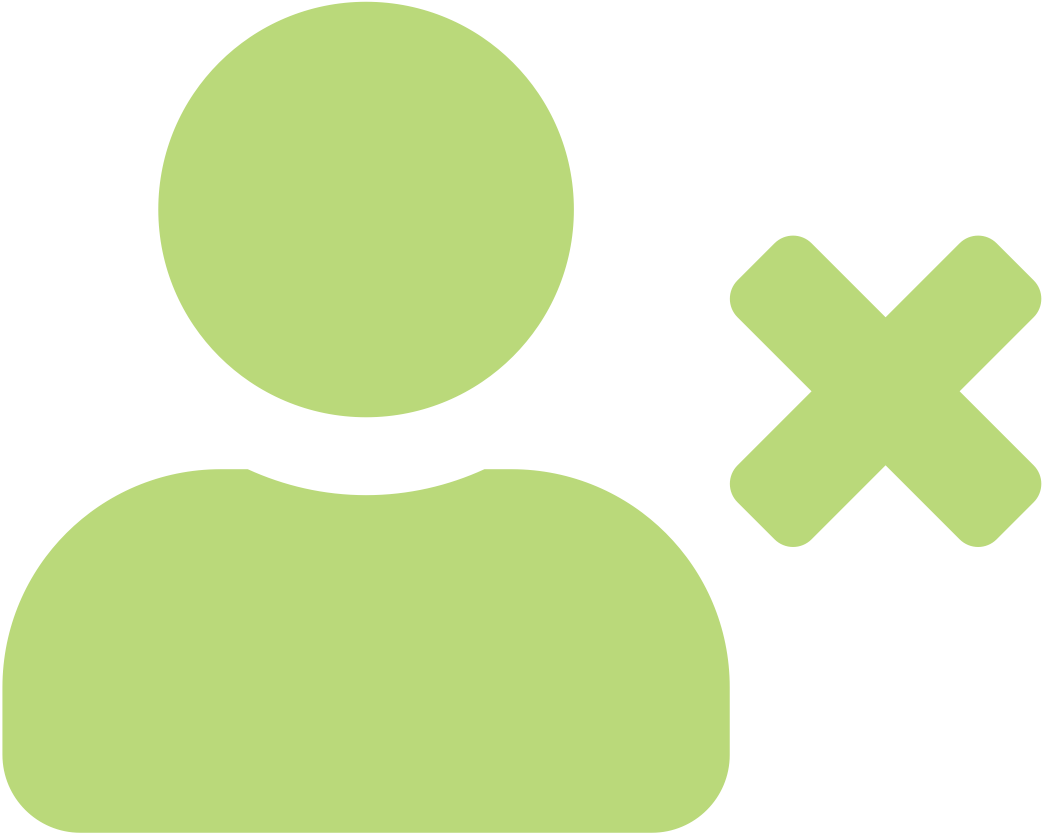
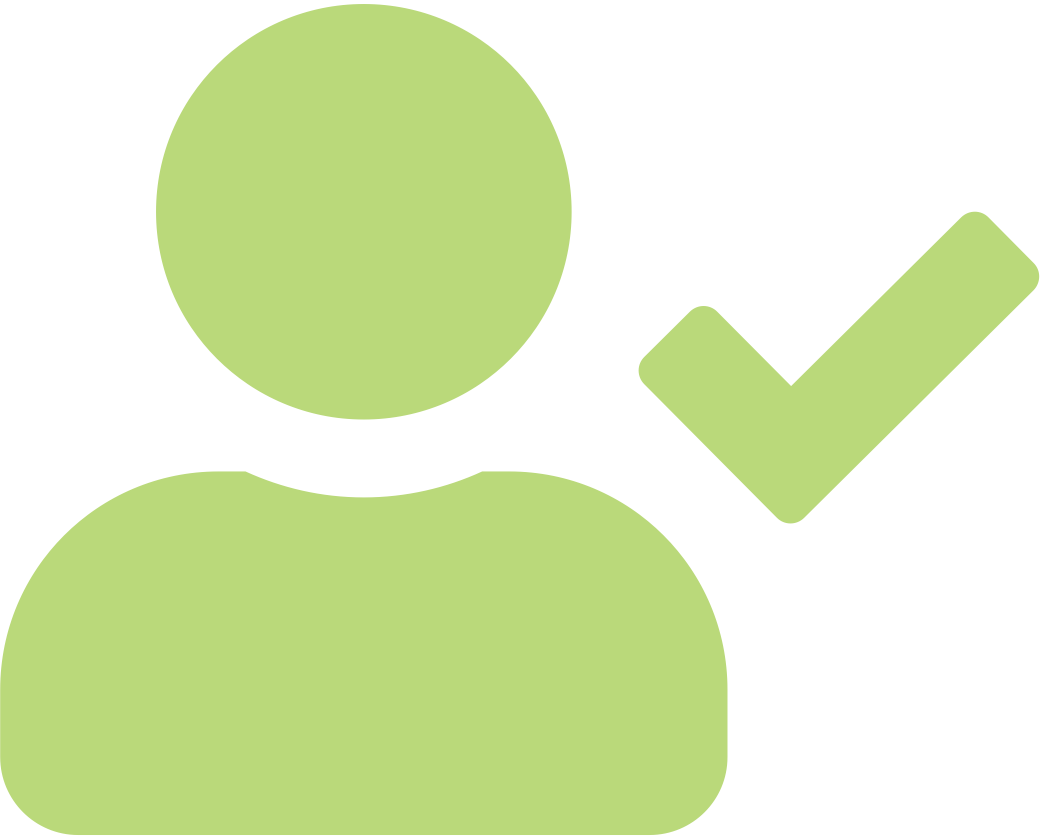
Finalized basic frontend for check_in and check_out

diff --git a/koordapp/main_app/templates/checked_out/checked_out.html b/koordapp/main_app/templates/checked_out/checked_out.html
@@ -1,10 +1,19 @@
 <!DOCTYPE html>
-<html lang="en">
-<head>
-    <meta charset="UTF-8">
-    <title>Title</title>
-</head>
-<body>
+<html lang="de">
+{% extends 'base.html' %}
+{% load static %}
+{% block content %}
 
-</body>
-</html>
+    <head>
+        <link rel="stylesheet" type="text/css" href="{% static 'css/checked_in_out/checked_in_out_style.css' %}"/>
+    </head>
+
+    <body>
+
+    <div class ="mid_container">
+        <h1 class="default_heading_mid"> Tschüss Max! </h1>
+        <img src="{% static 'img/checked_out.png' %}" alt="Checked-Out" class="checked_in_out_logo">
+    </div>
+    </body>
+    </html>
+{% endblock %}

diff --git a/koordapp/main_app/templates/checked_in/checked_in.html b/koordapp/main_app/templates/checked_in/checked_in.html
@@ -12,7 +12,7 @@
 
     <div class ="mid_container">
         <h1 class="default_heading_mid"> Hallo Max! </h1>
-        <img src="{% static 'img/placeholder_nfc_scan_transparent.png' %}" alt="NFC-Scan" class="checked_in_logo">
+        <img src="{% static 'img/checked_in.png' %}" alt="Checked-In" class="checked_in_logo">
     </div>
     </body>
     </html>

diff --git a/koordapp/main_app/static/css/checked_in_out/checked_in_out_style.css b/koordapp/main_app/static/css/checked_in_out/checked_in_out_style.css
@@ -14,9 +14,9 @@
     font-size: 70px;
 }
 
-.checked_in_logo {
-    margin-left: 7%;
+.checked_in_out_logo {
+    margin-left: 6%;
+    margin-top: 4%;
     height: 30vw;
     width: auto;
-
 }
